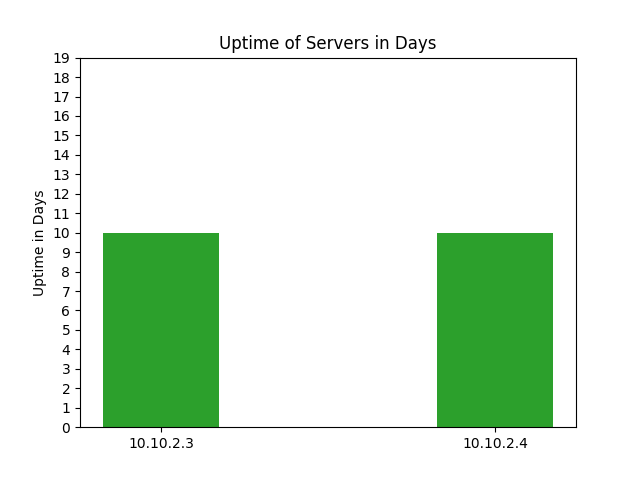
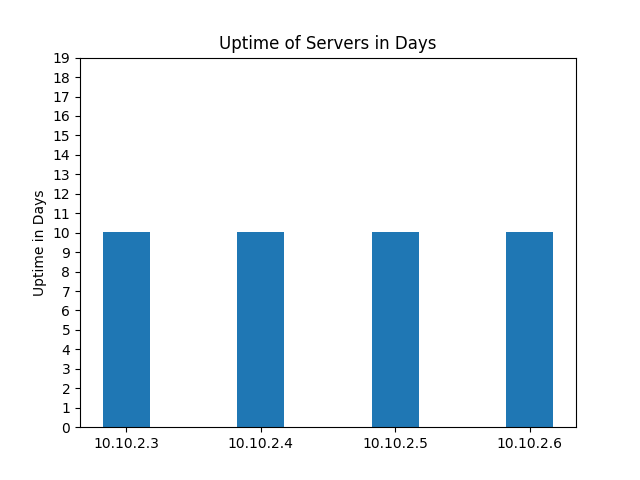
Lab32 challenges- Day5

Changed region(s): [[0.5625, 0.4688, 0.875, 0.9375], [0.125, 0.4688, 0.4688, 0.9375]]

diff --git a/flaskapi/graphapp01.py b/flaskapi/graphapp01.py
@@ -38,7 +38,7 @@ def graphin():
     print(svruptime)
 
     # graphin
-    N = 2 # total number of bars
+    N = len(xtick) # total number of bars
     ind = np.arange(N)    # the x locations for the groups
     width = 0.35       # the width of the bars: can also be len(x) sequence
     p1 = plt.bar(ind, svruptime, width)
